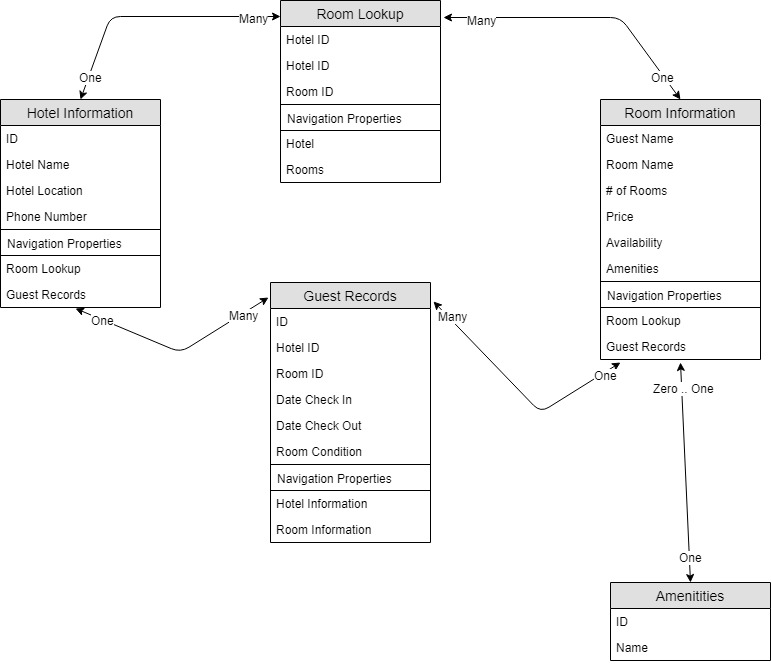
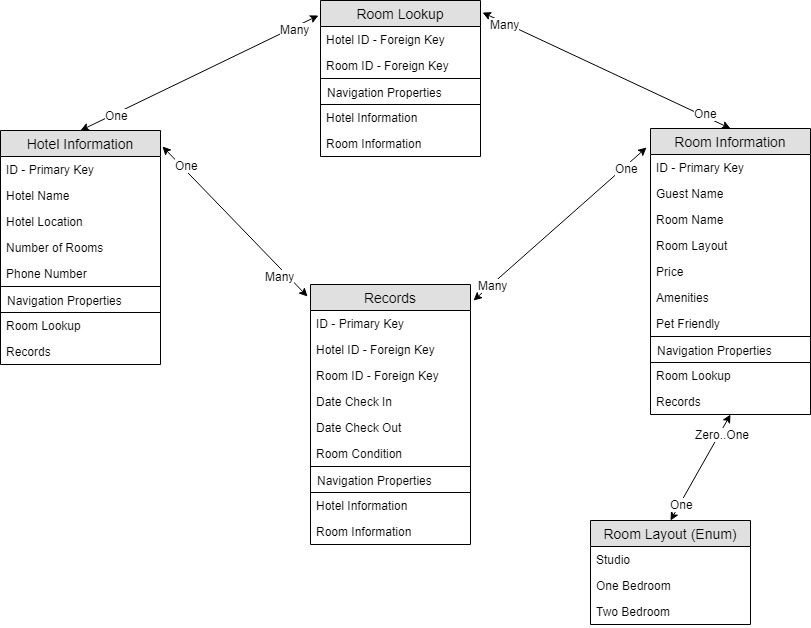
updated image and readme

diff --git a/README.md b/README.md
@@ -1,1 +1,12 @@
 # Lab12-RelationalDatabases
+## Tables
+### Hotel Information
+This table holds information about each specific Hotel including: Hotel Name, Hotel Location, Number of Rooms, and Phone Number. This table also has its own ID which is shared with two other tables: Room Lookup and Hotel Records.
+### Room Information
+This table holds information about specific Rooms including: Guest Name, Room Name, Room Layout, Price, Amenities, and Pet Friendly status. This table has its own ID which is shared with two other tables: Room Lookup and Hotel Records. Room Information also pulls from an enum which holds Room Layouts.
+### Room Lookup
+This table is only a Join table. It takes keys from the Hotel Informationt table and the Room Information table.
+### Records
+This table is a Joint Entity Table with a Payload. It takes data from the Hotel Information table and the Room Information table. It also adds information: Date of Guest Check In, Date of Guest Check Out, and Condition of Room at Checkout.
+### Room Layout
+This enum holds Room Layouts including: Studio, One Bedroom, and Two Bedroom.  It is used exclusively by the Room Information table.
